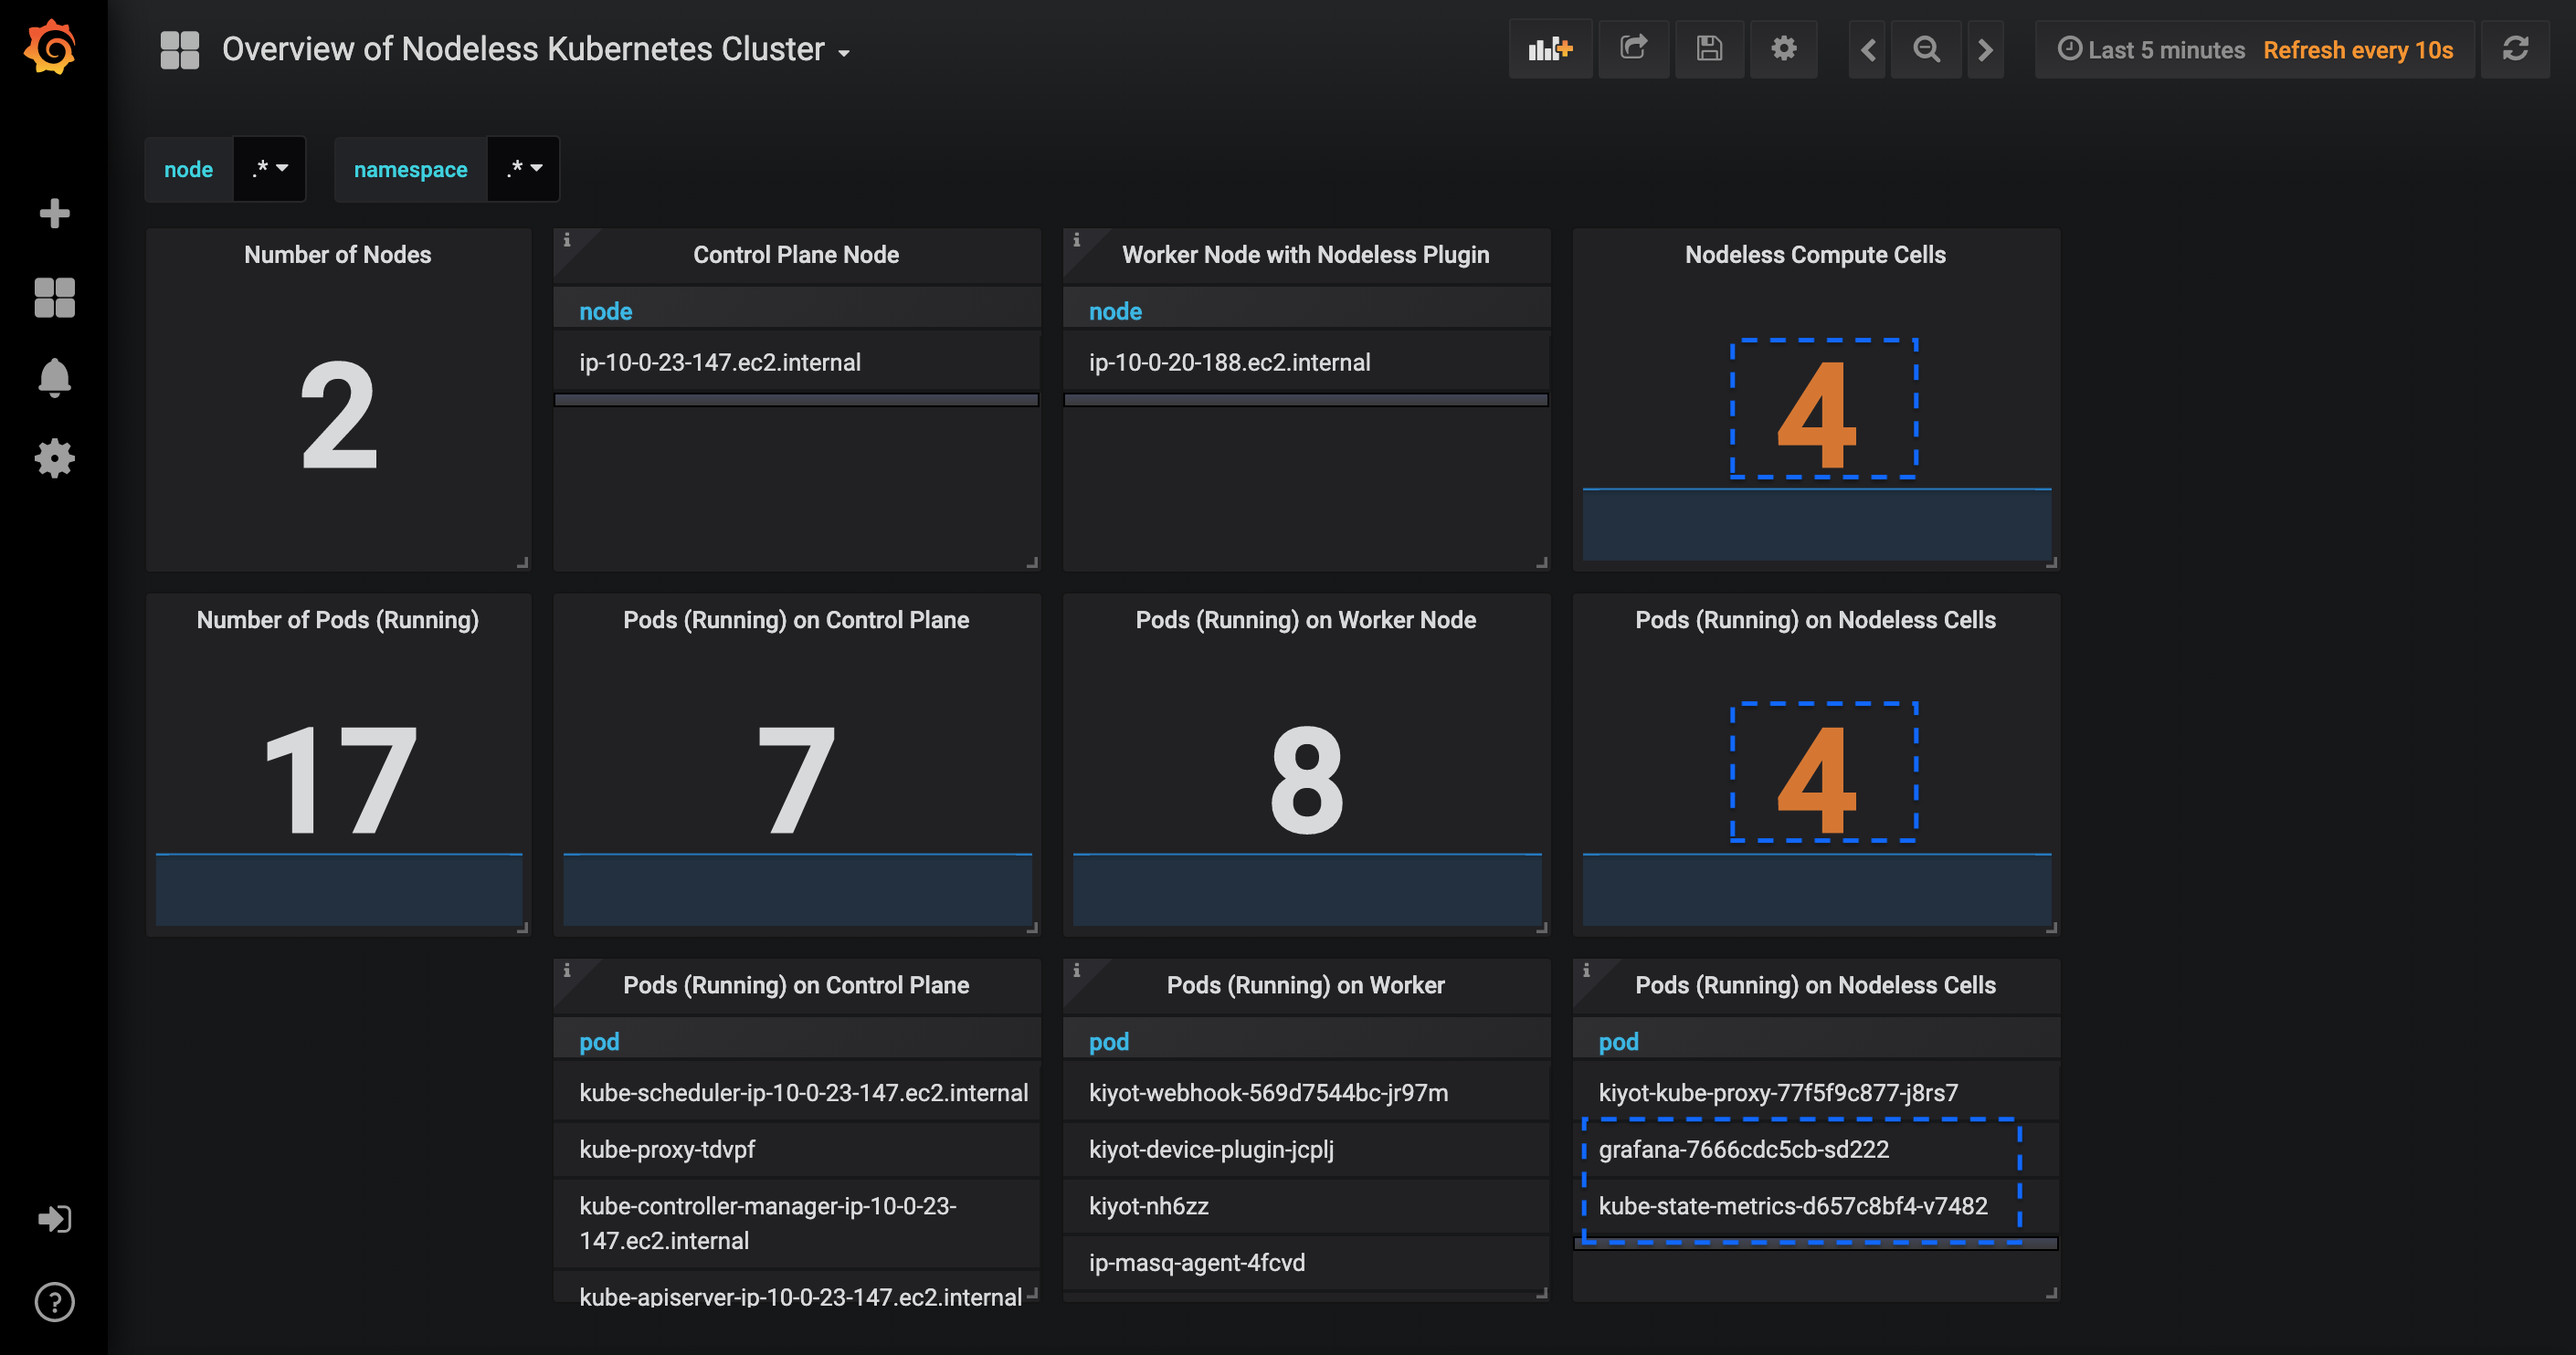
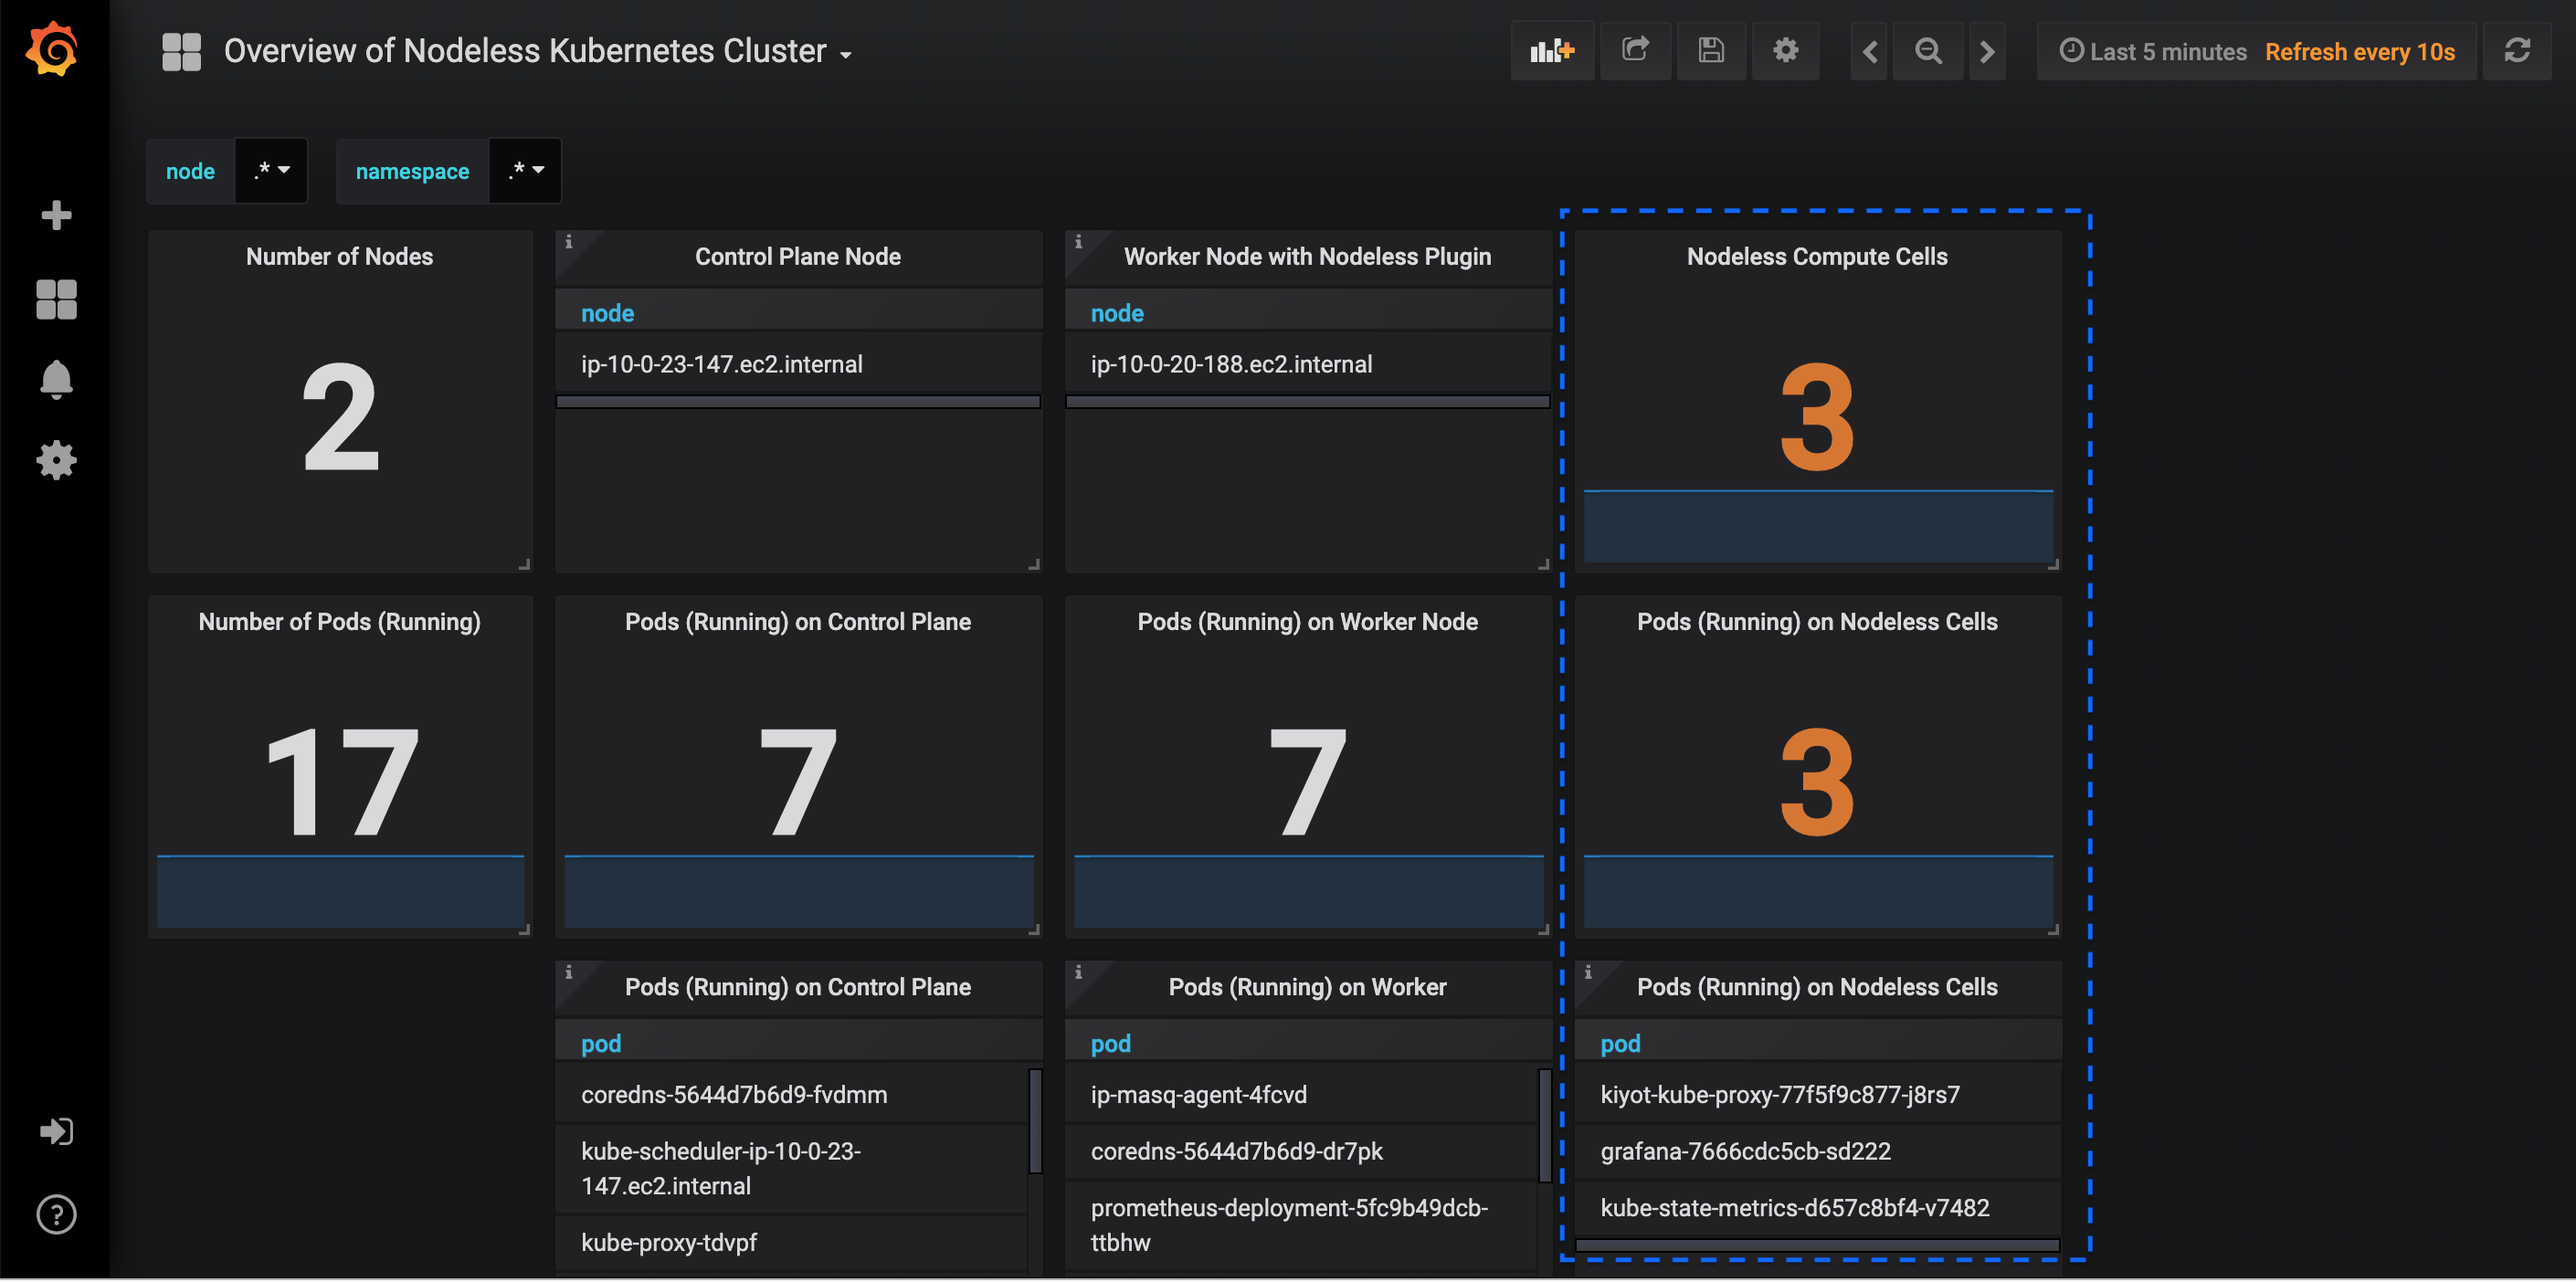
update grafana dashboard

diff --git a/README.md b/README.md
@@ -76,7 +76,10 @@ Create Datasource for Prometheus called `DS_Prometheus` with http url set to `ht
 ![alt text](https://github.com/elotl/nodeless-prometheus-tutorial/blob/master/prometheus-datasource.png "Prometheus Datasource")
 
 Import [Grafana dashboard 11124](https://grafana.com/grafana/dashboards/11124).
+
 ![alt text](https://github.com/elotl/nodeless-prometheus-tutorial/blob/master/grafana-dashboard-1.png "Grafana Dashboard")
+
+There are 3 Compute Cells in our cluster running {Grafana, kube-state-metrics} and a system pod.
 
 ### Teardown
 
